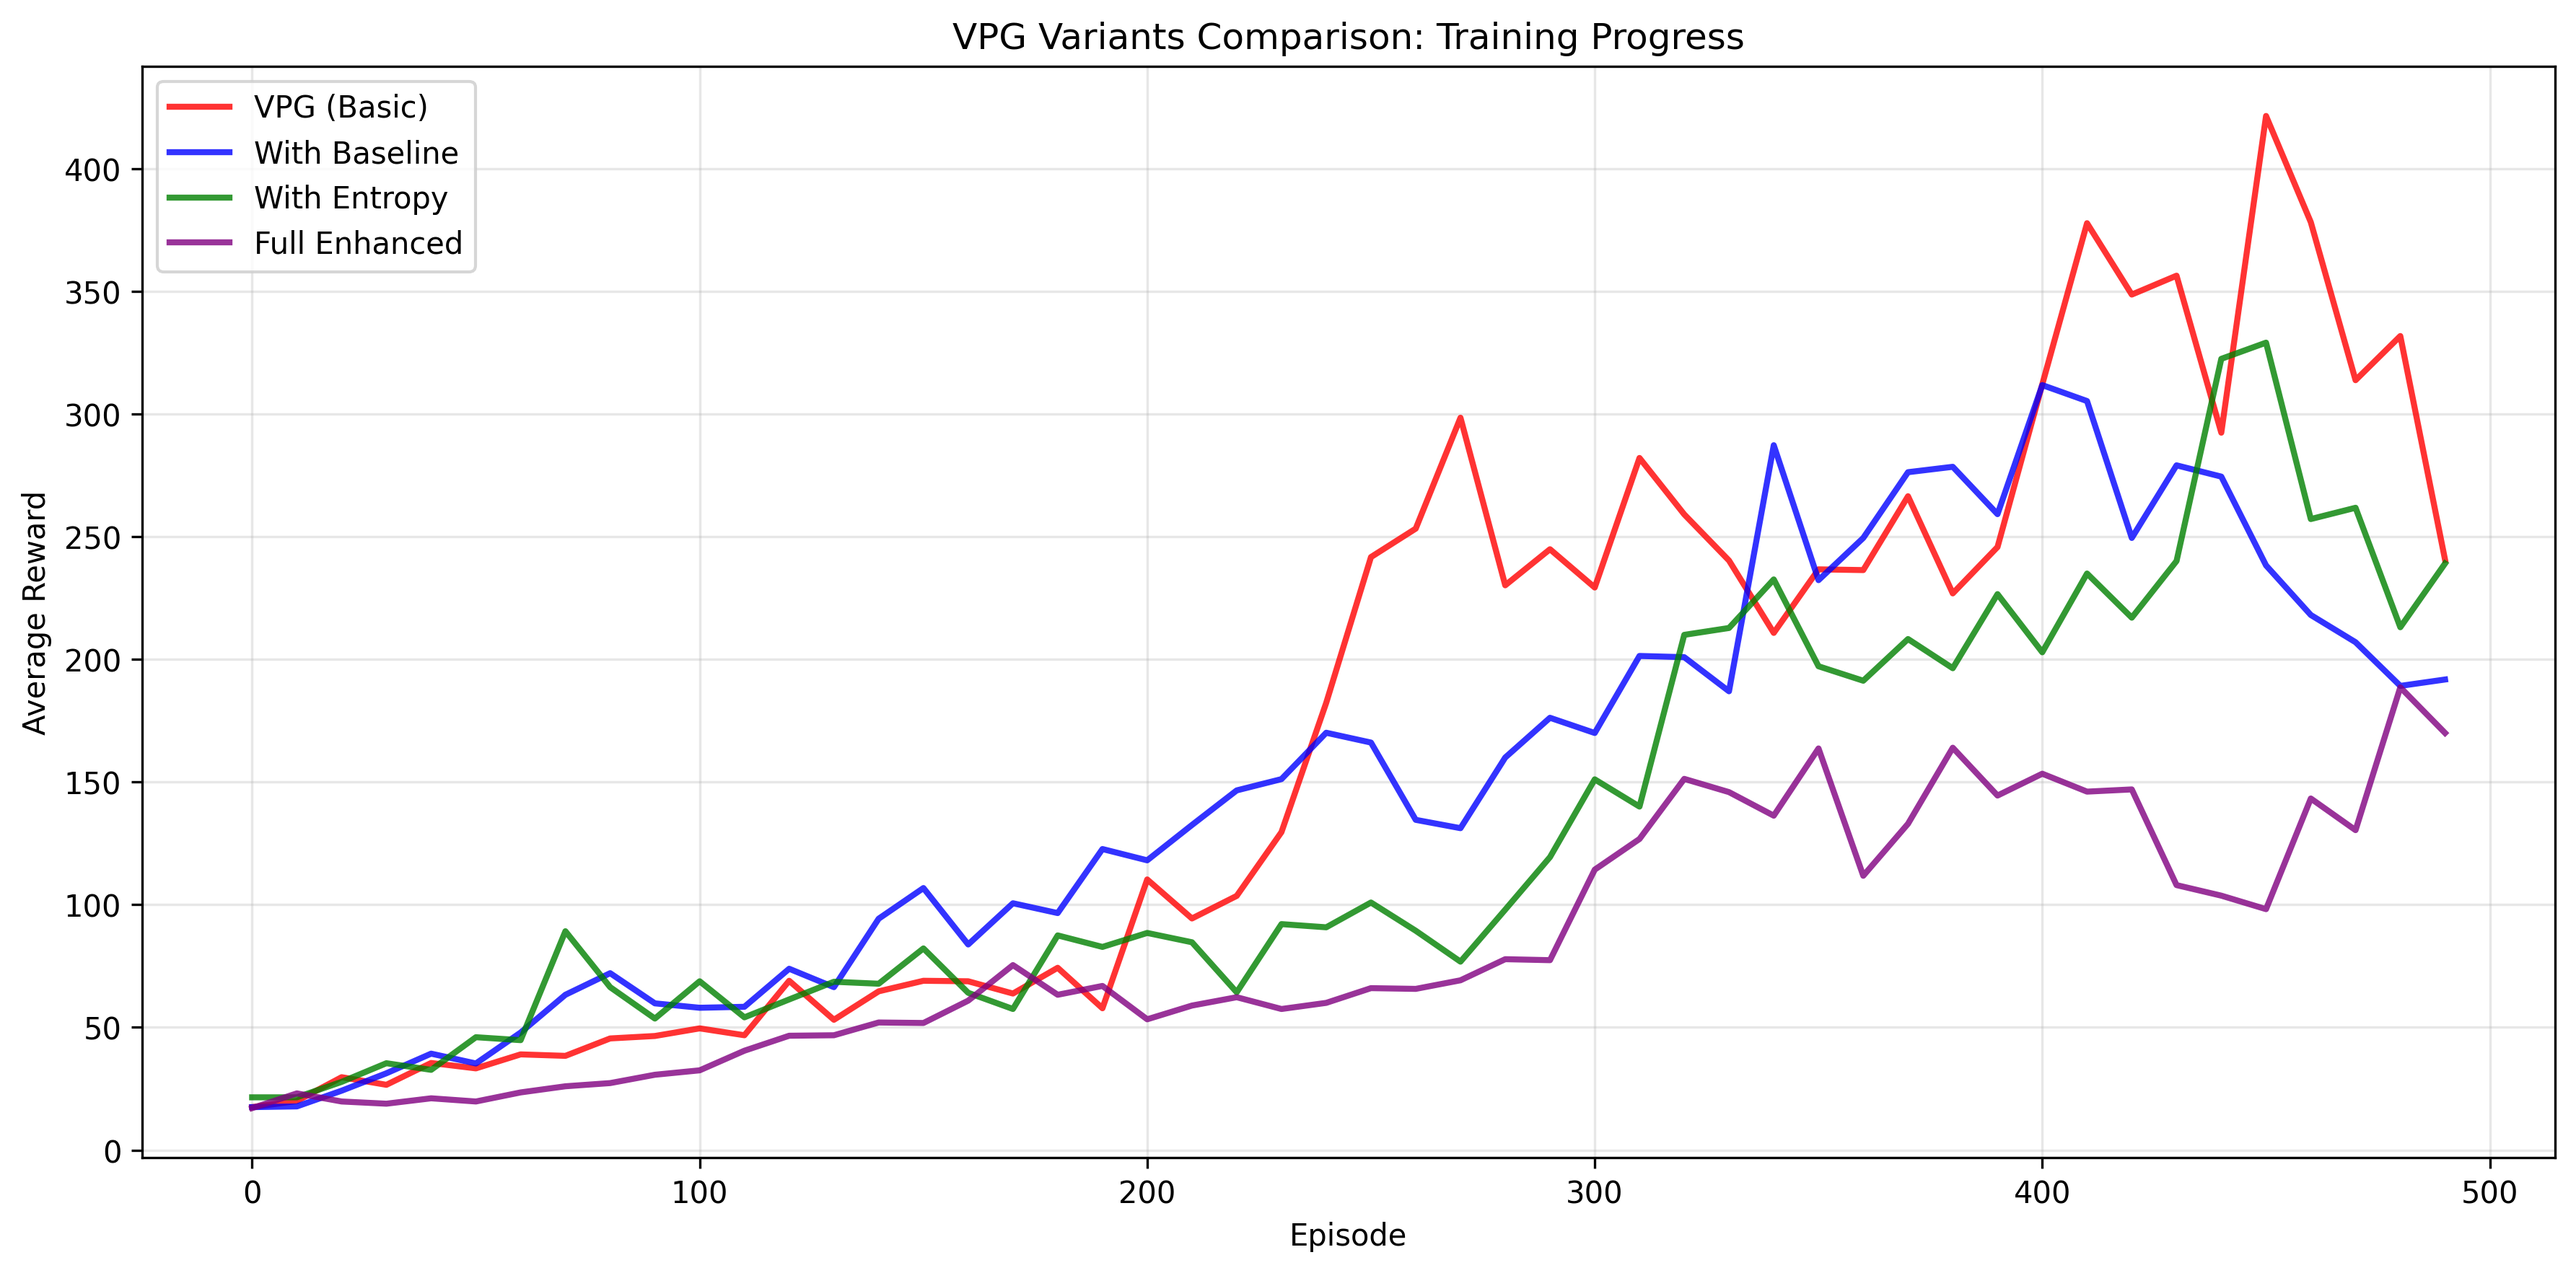
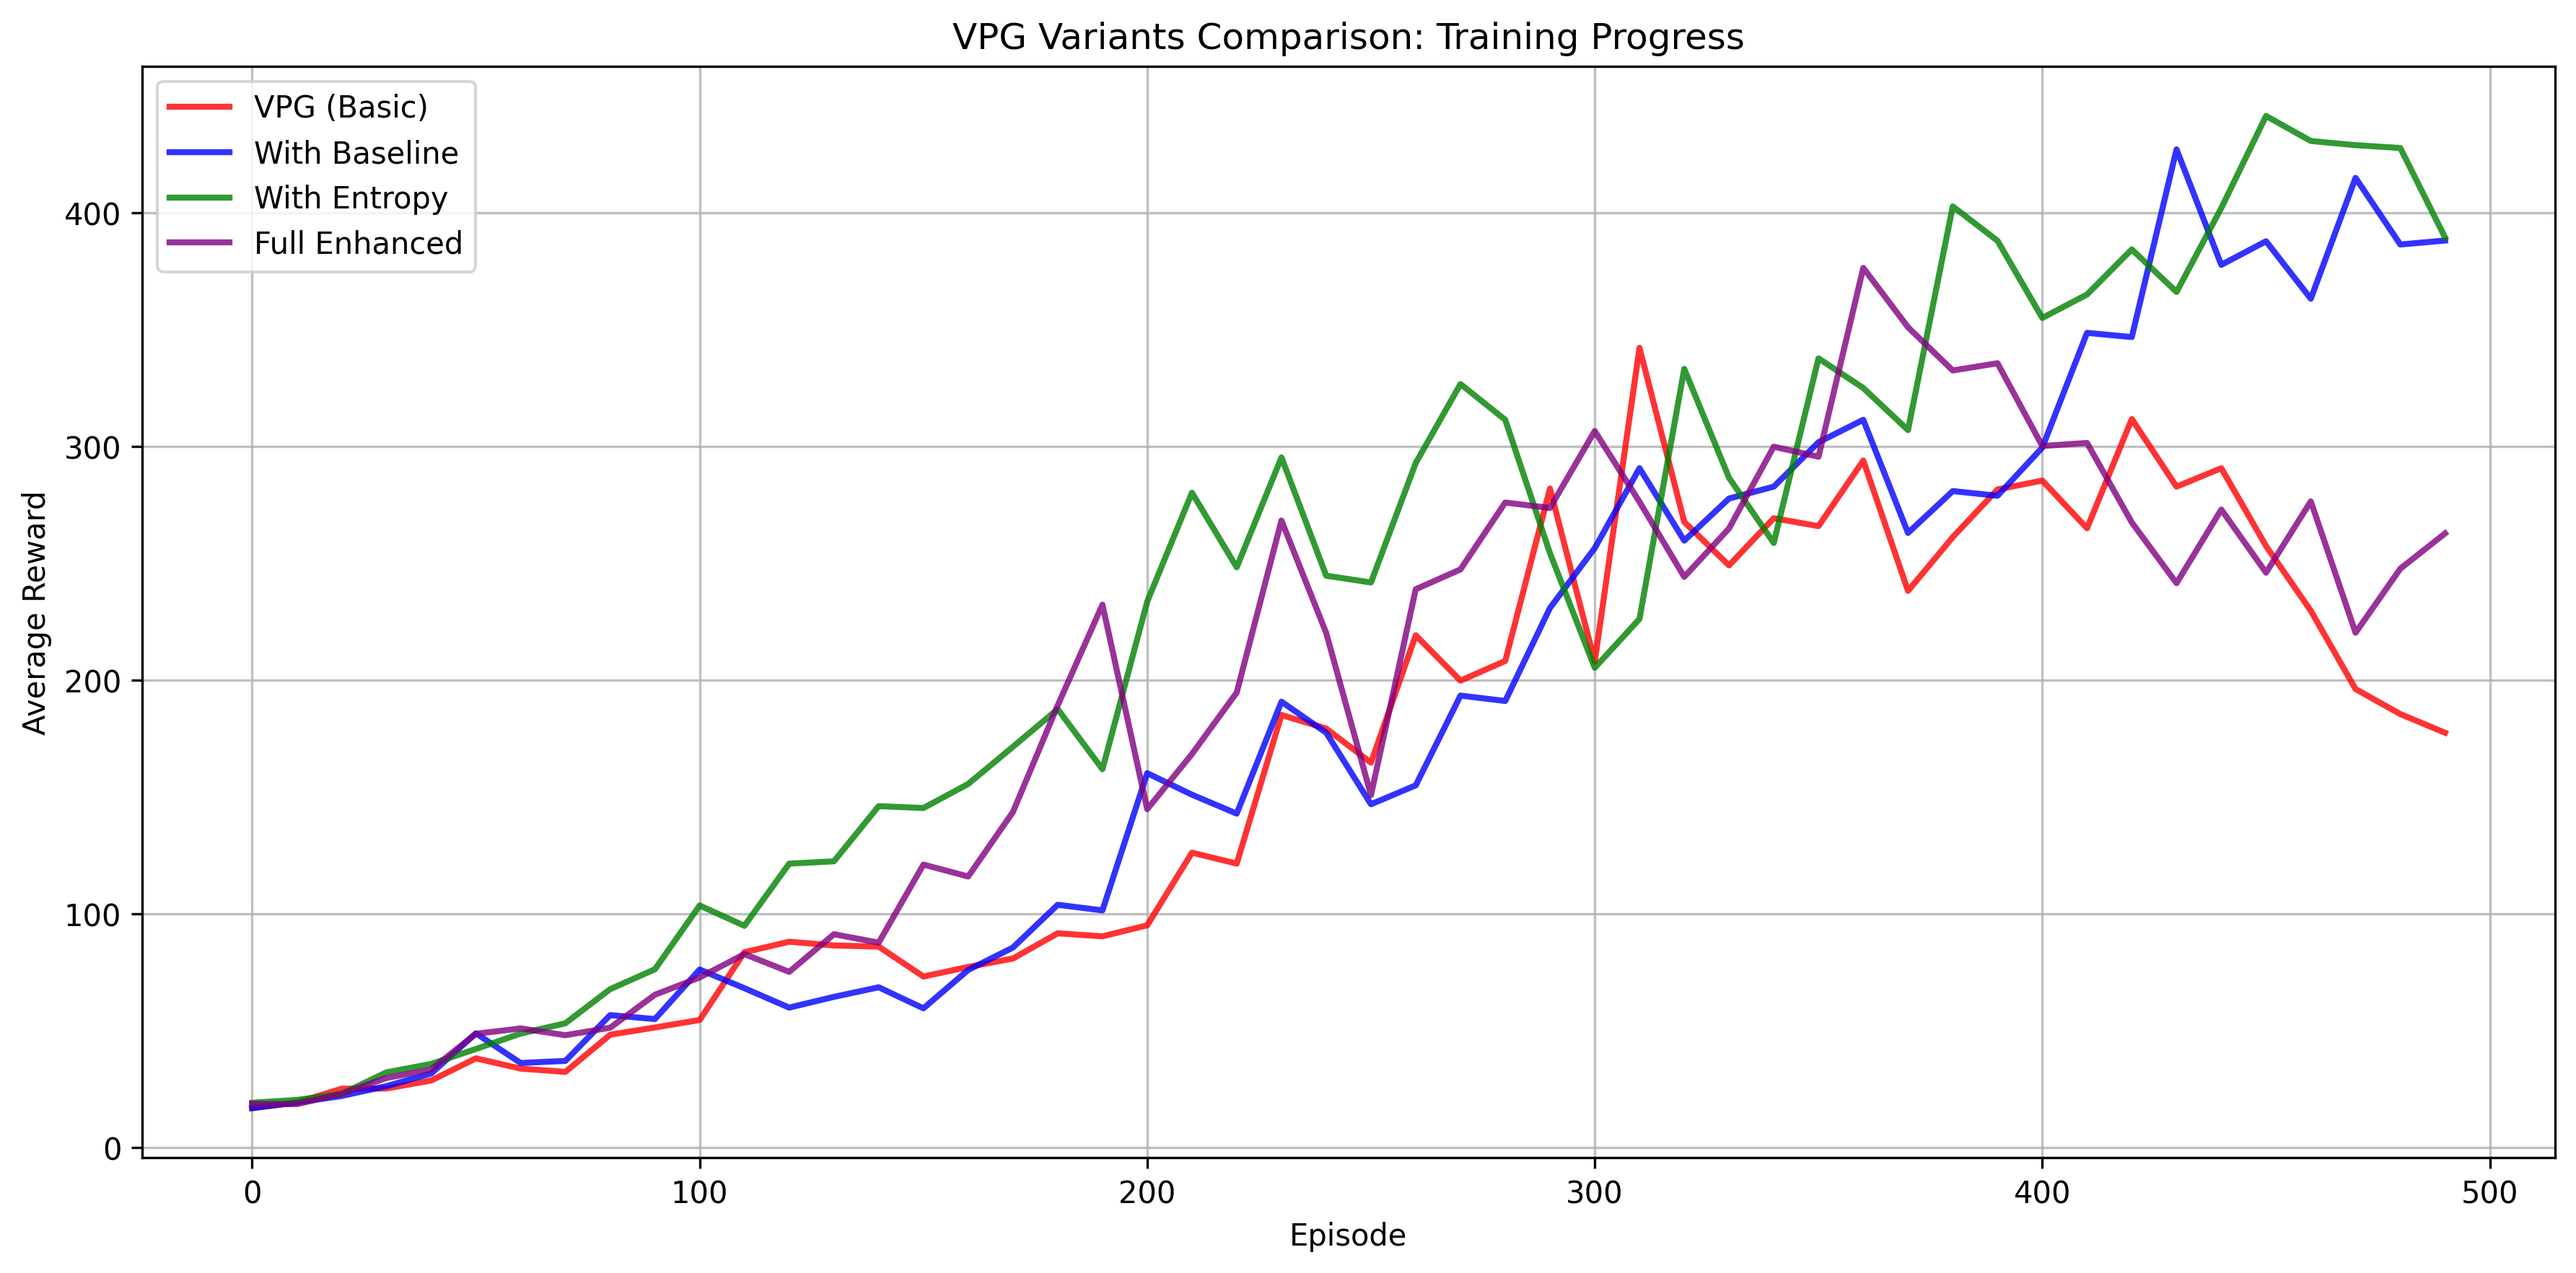
grid

diff --git a/plot.py b/plot.py
@@ -29,9 +29,10 @@ def plot_comparison(results):
     ax.set_ylabel("Average Reward")
     ax.set_title("VPG Variants Comparison: Training Progress")
     ax.legend()
-    ax.grid(True, alpha=0.3)
+    ax.grid(True, alpha=0.8)
 
     plt.tight_layout()
+    plt.grid(True, alpha=0.8)
     plt.savefig("images/vpg_comparison.png", dpi=300, bbox_inches="tight")
     print(f"\n📊 Comparison plot saved to images/vpg_comparison.png")
 
@@ -49,7 +50,7 @@ def plot_training_curves(rewards, losses, save_path="images/training_curves.png"
     ax1.set_xlabel("Episode")
     ax1.set_ylabel("Average Reward")
     ax1.set_title("Training Progress: Average Reward")
-    ax1.grid(True, alpha=0.3)
+    ax1.grid(True, alpha=0.8)
     ax1.legend()
 
     # Plot losses
@@ -57,9 +58,10 @@ def plot_training_curves(rewards, losses, save_path="images/training_curves.png"
     ax2.set_xlabel("Episode")
     ax2.set_ylabel("Loss")
     ax2.set_title("Training Progress: Loss")
-    ax2.grid(True, alpha=0.3)
+    ax2.grid(True, alpha=0.8)
     ax2.legend()
 
     plt.tight_layout()
+    plt.grid(True, alpha=0.8)
     plt.savefig(save_path, dpi=300, bbox_inches="tight")
     print(f"📊 Training curves saved to {save_path}")

diff --git a/README.md b/README.md
@@ -11,9 +11,52 @@ This implementation demonstrates how various enhancements to vanilla policy grad
 - **Gradient clipping** for stability
 - **Per-episode normalization** for fair comparison
 
-### Training Results
+### Default Compare
 
 ![training results](images/vpg_comparison.png)
+
+```
+(venv) ➜  jax-vpg git:(master) ✗ python3 main.py --compare --episodes=500 --episodes-per-update=10
+🎯 Starting VPG Variant Comparison...
+Running 4 variants with 500 episodes each
+
+
+🚀 Running VPG (Basic)...
+Description: Basic VPG with no enhancements
+Episode 0-9: Avg Reward: 16.90, Loss: 1074.7069
+Episode 10-19: Avg Reward: 19.30, Loss: 1326.8416
+...
+✅ VPG (Basic) completed successfully
+
+🚀 Running With Baseline...
+Description: VPG with baseline subtraction for variance reduction
+Episode 0-9: Avg Reward: 16.90, Loss: 37.4608
+Episode 10-19: Avg Reward: 19.30, Loss: 17.5480
+...
+✅ With Baseline completed successfully
+
+🚀 Running With Entropy...
+Description: VPG with baseline and entropy regularization
+Episode 0-9: Avg Reward: 19.20, Loss: 60.6202
+Episode 10-19: Avg Reward: 20.40, Loss: 24.0891
+...
+✅ With Entropy completed successfully
+
+🚀 Running Full Enhanced...
+Description: VPG with all enhancements
+Episode 0-9: Avg Reward: 18.70, Loss: 8.0949
+Episode 10-19: Avg Reward: 18.60, Loss: 1.0856
+...
+✅ Full Enhanced completed successfully
+
+📊 Comparison plot saved to images/vpg_comparison.png
+
+📊 Summary:
+  VPG (Basic): Final reward = 177.50
+  With Baseline: Final reward = 388.10
+  With Entropy: Final reward = 389.40
+```
+
 
 ### Run
 
